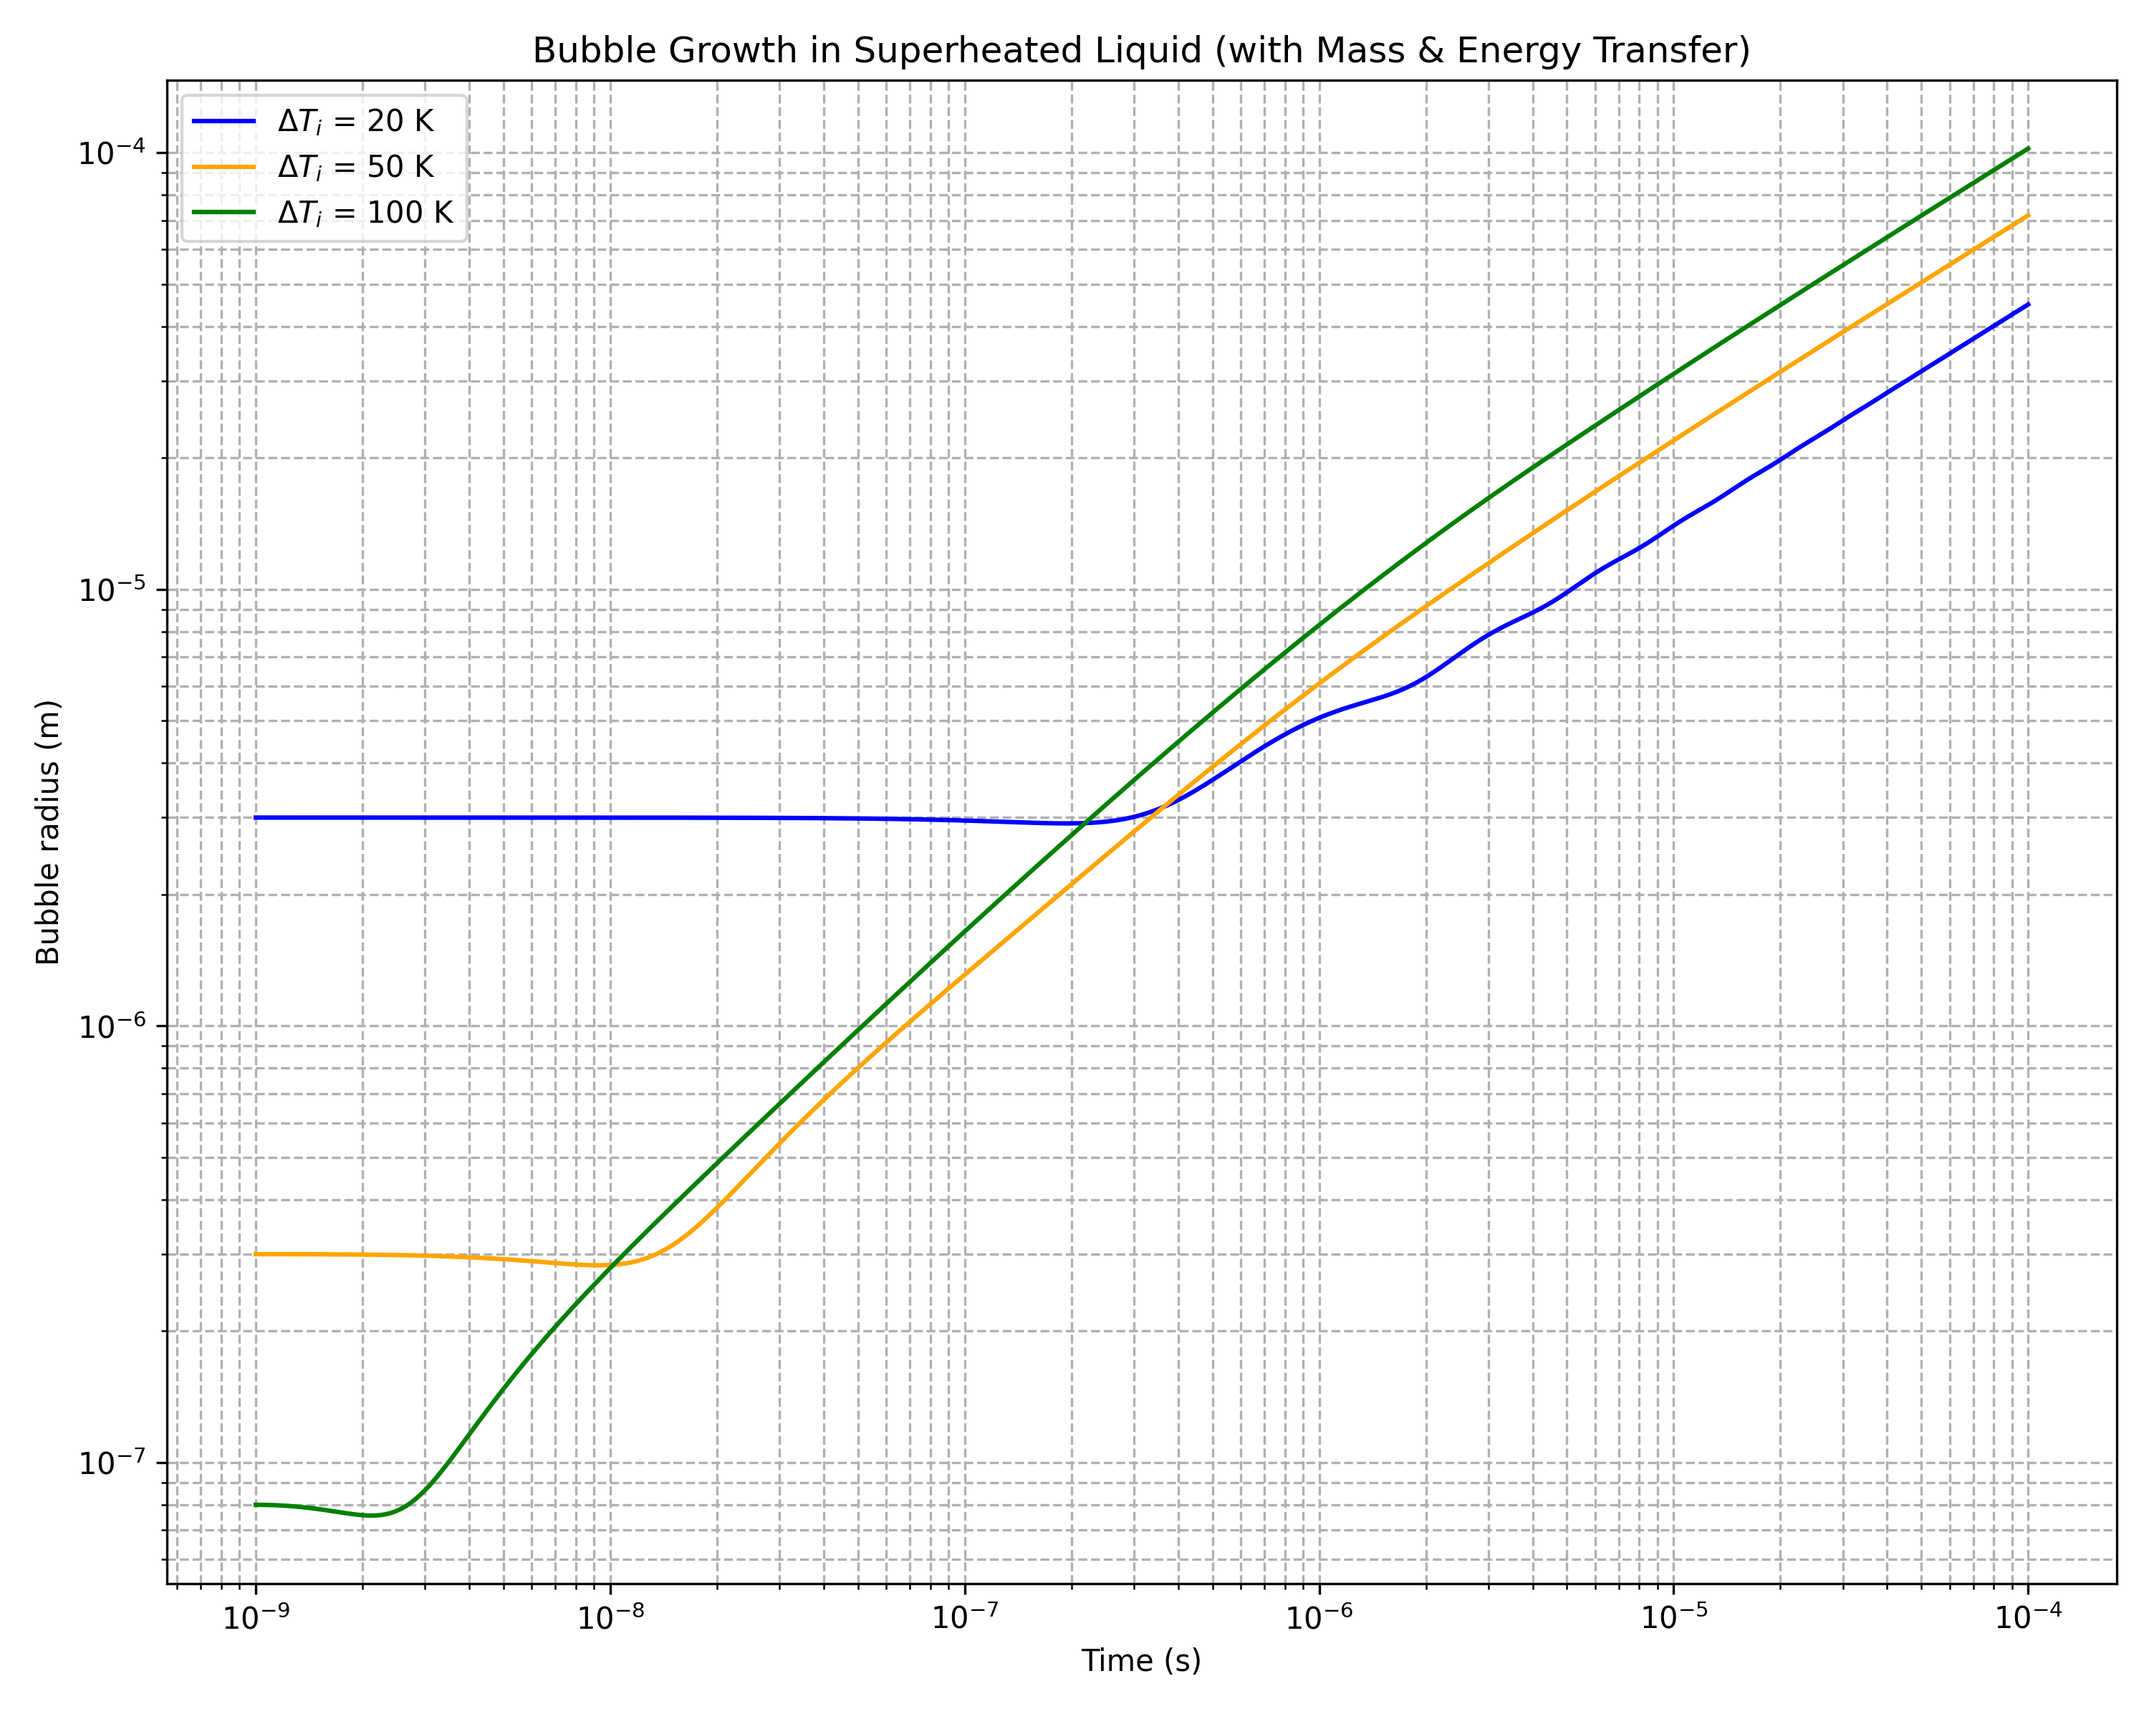
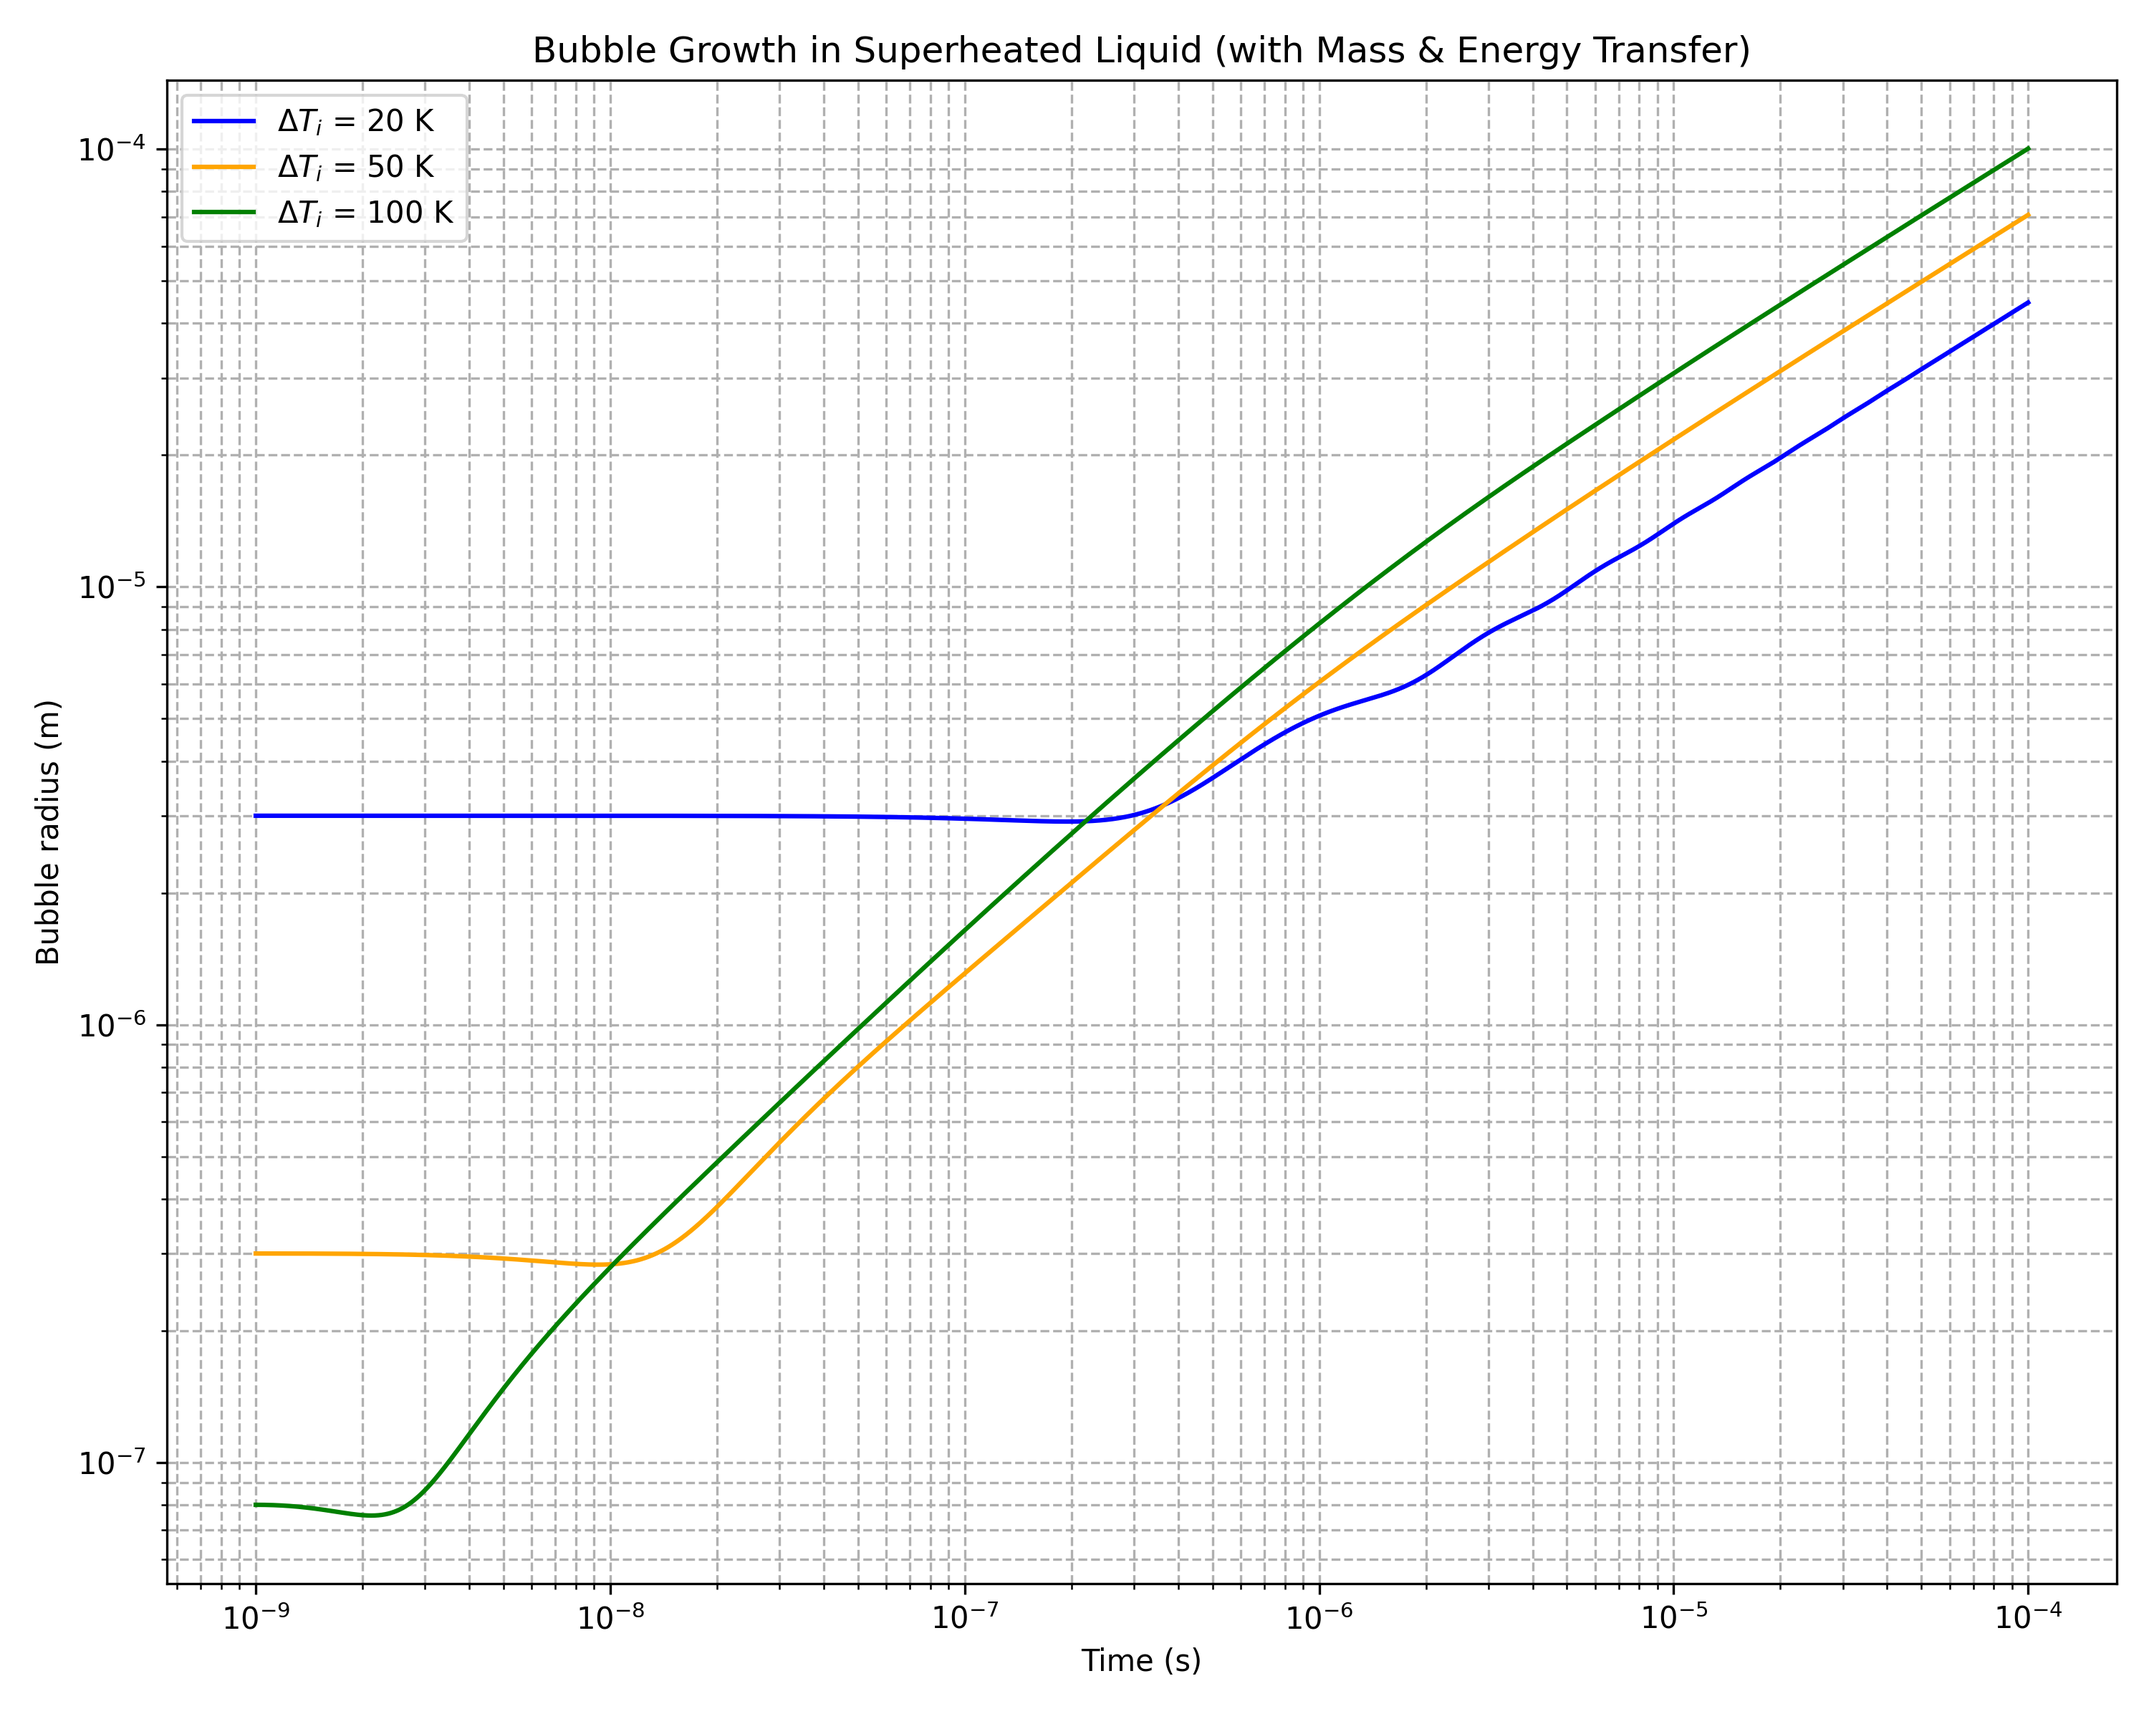
khana

diff --git a/final.py b/final.py
@@ -31,7 +31,7 @@ rho_v0 = p_inf / (R_gas * T_sat)  # assume initial pressure ~ ambient pressure
 
 # Time span
 t_span = (1e-9, 1e-4)
-points = 3000
+points = 300000
 t_eval = np.logspace(np.log10(t_span[0]), np.log10(t_span[1]), points)
 
 # Different initial superheating values (K)
